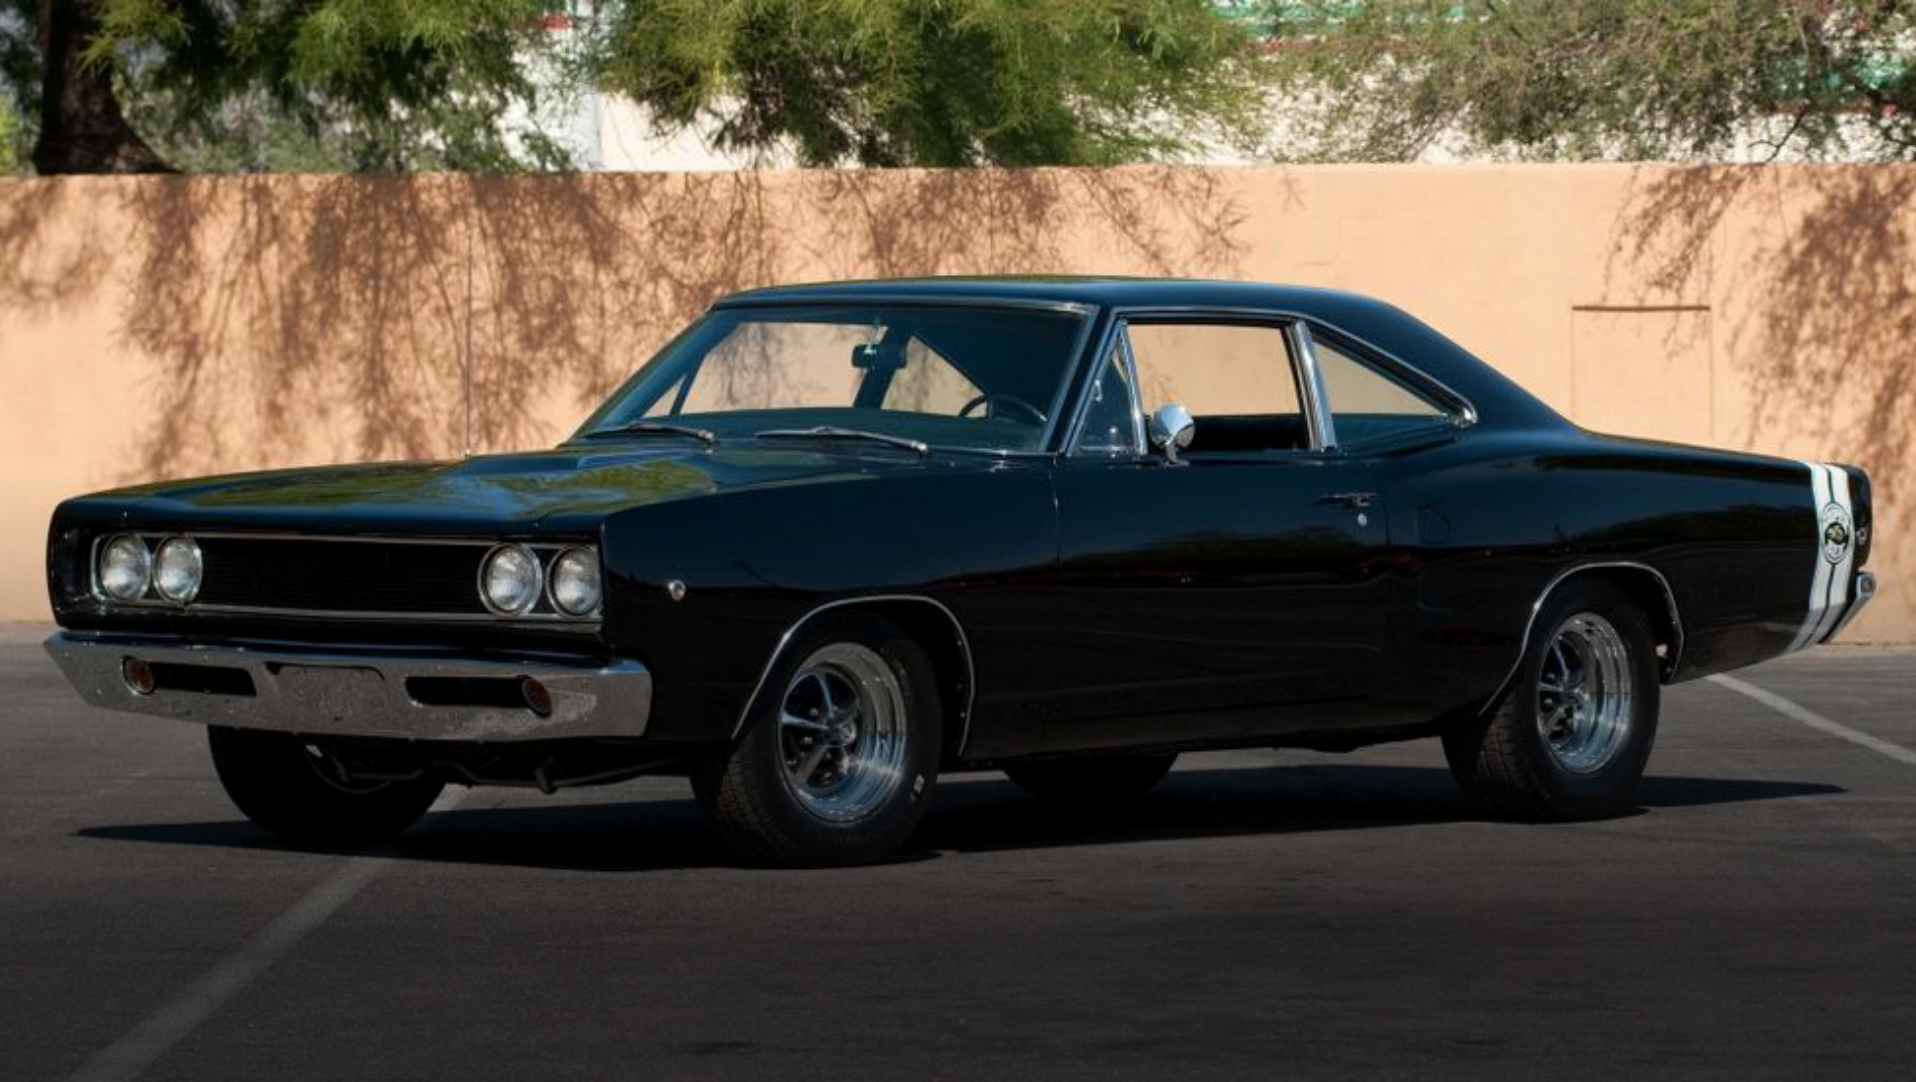
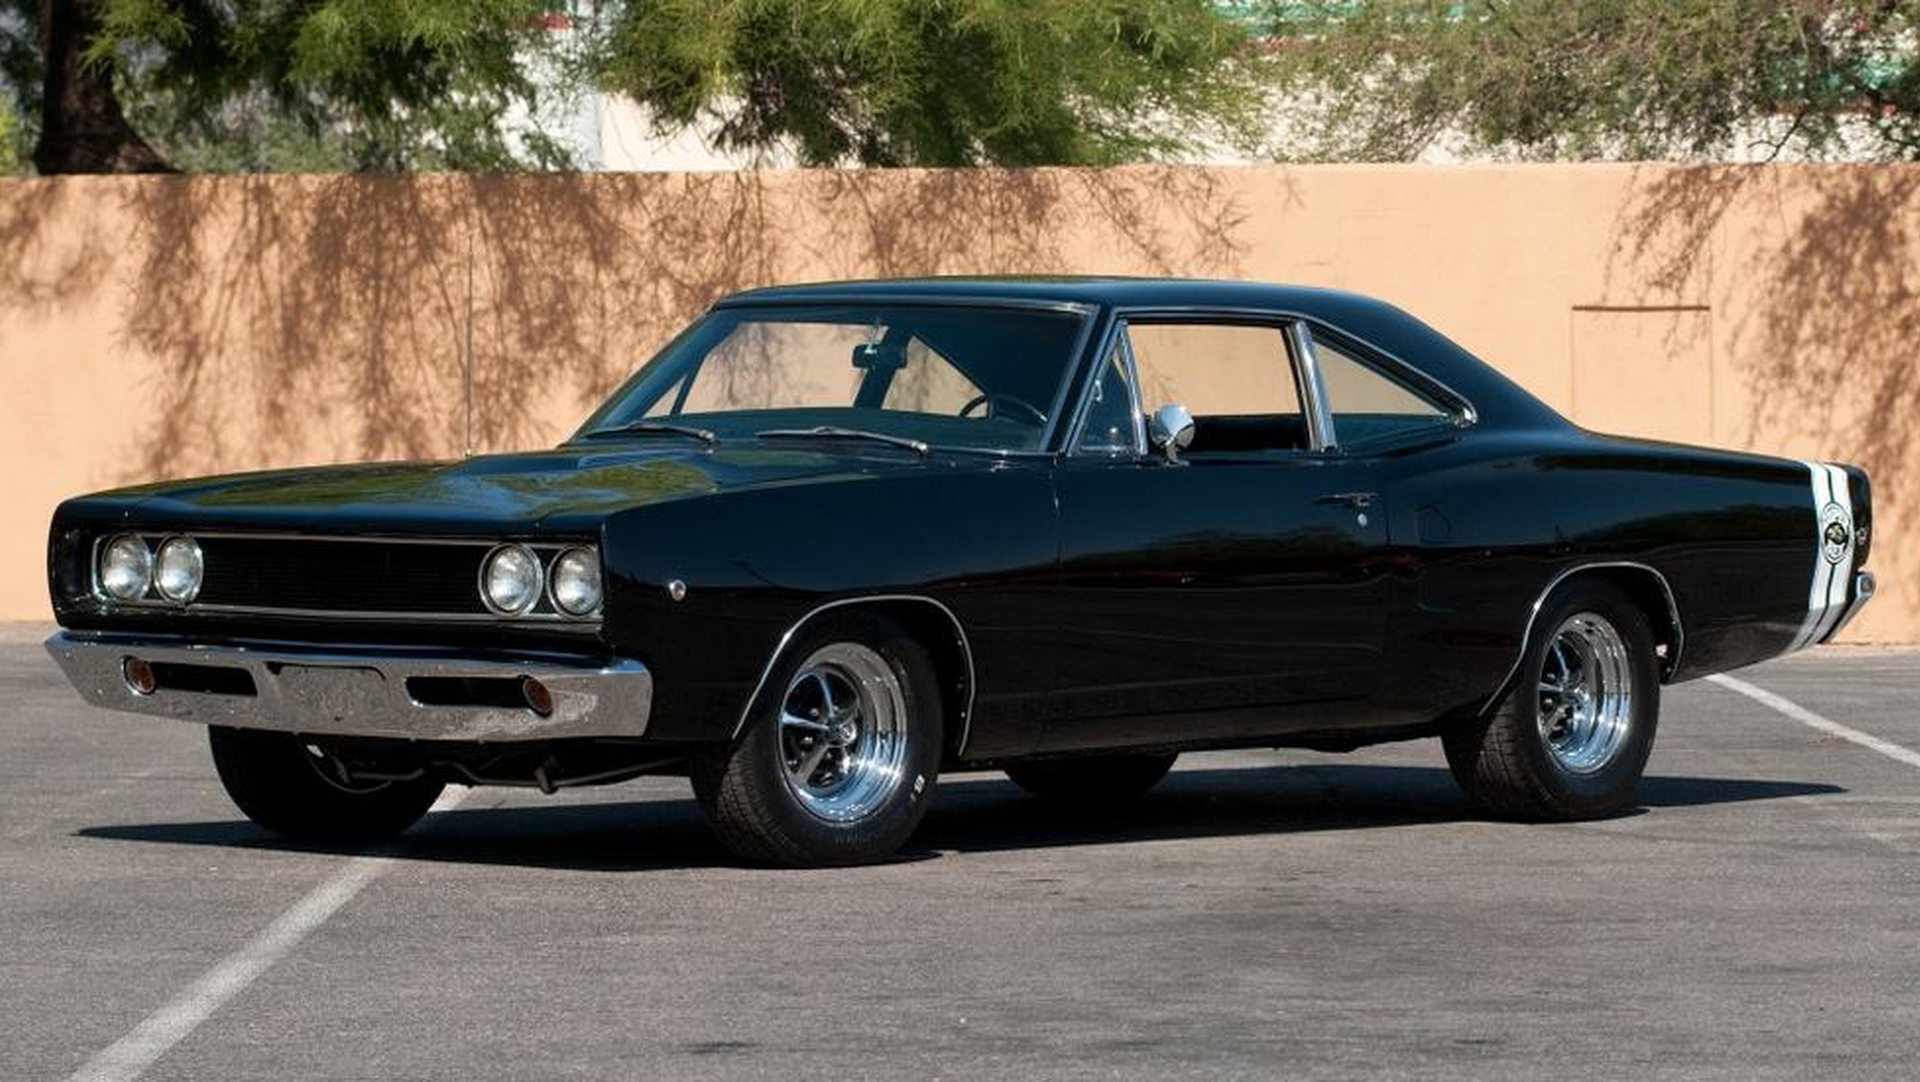
Remove black gaps between car grid images for uniform styling
- Switch car photos back to object-fit: cover for seamless edge-to-edge tiles
- Remove dark card background and borders that created visible gaps
- Re-extract car images with cover crop for consistent 1920×1082 framing

diff --git a/src/App.css b/src/App.css
@@ -387,7 +387,7 @@
   background: #ffffff;
   max-width: 1920px;
   margin: 0 auto;
-  opacity: 1;
+  padding: 0;
 }
 
 .cars-grid {
@@ -395,6 +395,8 @@
   grid-template-columns: repeat(2, minmax(0, 1fr));
   gap: 0;
   width: 100%;
+  margin: 0;
+  padding: 0;
 }
 
 .car-card--overlay {
@@ -405,8 +407,9 @@
   display: flex;
   flex-direction: column;
   justify-content: flex-end;
-  border: 0.5px solid rgba(0, 0, 0, 0.08);
-  background: #111111;
+  margin: 0;
+  padding: 0;
+  border: none;
 }
 
 .car-card--cta {
@@ -435,7 +438,7 @@
   inset: 0;
   width: 100%;
   height: 100%;
-  object-fit: contain;
+  object-fit: cover;
   object-position: center;
   z-index: 0;
   display: block;

diff --git a/scripts/extract-cars-from-pdf.py b/scripts/extract-cars-from-pdf.py
@@ -3,6 +3,7 @@
 
 from __future__ import annotations
 
+import io
 import sys
 from pathlib import Path
 
@@ -25,6 +26,8 @@ UPLOAD_DIRS = [
 ]
 OUTPUT_DIRS = [ROOT / 'public' / 'cars', ROOT / 'src' / 'assets' / 'cars']
 RENDER_SCALE = 2
+TILE_WIDTH = 960 * RENDER_SCALE
+TILE_HEIGHT = 541 * RENDER_SCALE
 
 # Individual high-quality car tile PDFs → output filename
 CAR_PDFS = [
@@ -47,11 +50,47 @@ def find_pdf(filename: str) -> Path | None:
     return None
 
 
+def fit_cover(image: Image.Image, width: int, height: int) -> Image.Image:
+    src_w, src_h = image.size
+    scale = max(width / src_w, height / src_h)
+    resized = image.resize(
+        (max(1, int(src_w * scale)), max(1, int(src_h * scale))),
+        Image.Resampling.LANCZOS,
+    )
+    left = (resized.width - width) // 2
+    top = (resized.height - height) // 2
+    return resized.crop((left, top, left + width, top + height))
+
+
 def render_page(pdf_path: Path, scale: int = RENDER_SCALE) -> Image.Image:
     doc = fitz.open(pdf_path)
     page = doc[0]
     matrix = fitz.Matrix(scale, scale)
-    pixmap = page.get_pixmap(matrix=matrix, alpha=False)
+    pixmap = page.get_pixmap(matrix=matrix, clip=page.rect, alpha=False)
+    image = Image.frombytes('RGB', (pixmap.width, pixmap.height), pixmap.samples)
+    doc.close()
+    return fit_cover(image, TILE_WIDTH, TILE_HEIGHT)
+
+
+def extract_embedded_image(pdf_path: Path) -> Image.Image | None:
+    doc = fitz.open(pdf_path)
+    page = doc[0]
+    images = page.get_images(full=True)
+    if not images:
+        doc.close()
+        return None
+
+    extracted = doc.extract_image(images[0][0])
+    image = Image.open(io.BytesIO(extracted['image'])).convert('RGB')
+    doc.close()
+    return fit_cover(image, TILE_WIDTH, TILE_HEIGHT)
+
+
+def render_cta_page(pdf_path: Path, scale: int = RENDER_SCALE) -> Image.Image:
+    doc = fitz.open(pdf_path)
+    page = doc[0]
+    matrix = fitz.Matrix(scale, scale)
+    pixmap = page.get_pixmap(matrix=matrix, clip=page.rect, alpha=False)
     image = Image.frombytes('RGB', (pixmap.width, pixmap.height), pixmap.samples)
     doc.close()
     return image
@@ -84,14 +123,14 @@ def main() -> None:
             print(f'Skipping {pdf_name}: file not found')
             continue
 
-        image = render_page(pdf_path)
+        image = extract_embedded_image(pdf_path) or render_page(pdf_path)
         save_image(image, output_name)
         print(f'Extracted {output_name} from {pdf_name} ({image.width}×{image.height})')
         extracted_any = True
 
     cta_path = find_pdf(CTA_PDF)
     if cta_path:
-        cta_image = remove_white_background(render_page(cta_path, scale=2))
+        cta_image = remove_white_background(render_cta_page(cta_path))
         save_image(cta_image, CTA_OUTPUT)
         print(f'Extracted {CTA_OUTPUT} from {CTA_PDF} ({cta_image.width}×{cta_image.height}, transparent)')
         extracted_any = True
